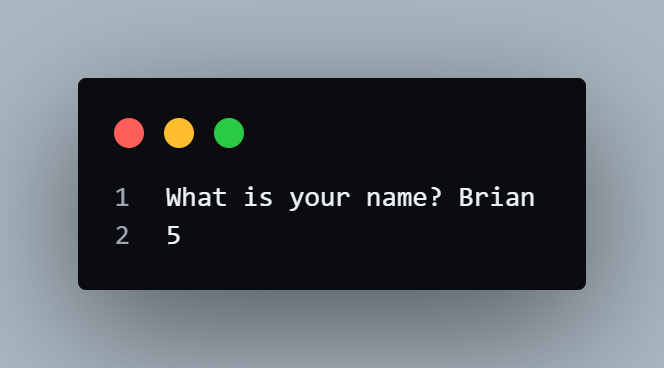
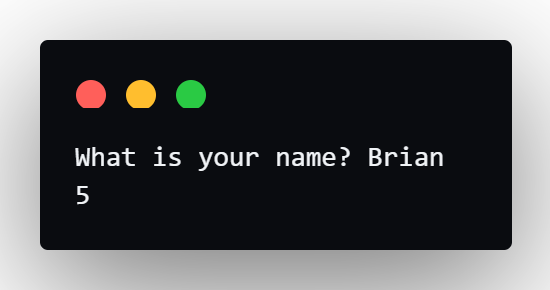
update README and pics

diff --git a/Day 9/testing.py b/Day 9/testing.py
@@ -1,0 +1,10 @@
+print("-------------Band Name Generator-------------\n")
+adjective = input("Enter an exciting adjective: ").capitalize()
+city = input("Enter your favorite color: ").capitalize()
+pet = input("Enter the name of your pet: ").capitalize()
+
+print("\nHere are the generated names for your band:")
+print(f"The {adjective} {city}")
+print(f"The {adjective} {pet}")
+print(f"The {pet} {city}")
+print(f"The {city} {pet}")

diff --git a/Day 1/README.md b/Day 1/README.md
@@ -13,7 +13,7 @@ print("The function is declared like this:")
 print("print('what to print')")
 ```
 
-- Result:
+- Result:<br>
 ![Day 1 Exercise 1](../assets/img/01_exercise_1.png)
 
 ## Exercise 2 - Debugging Practice
@@ -36,7 +36,7 @@ print('e.g. print("Hello " + "world")')
 print("New lines can be created with a backslash and n.")
 ```
 
-- Result:
+- Result:<br>
 ![Day 1 Exercise 2](../assets/img/01_exercise_2.png)
 
 ## Exercise 3 - Input Function
@@ -55,7 +55,7 @@ name = input("What is your name? ")
 print(len(name))
 ```
 
-- Result:
+- Result:<br>
 ![Day 1 Exercise 3](../assets/img/01_exercise_3.png)
 
 ## Exercise 4 - Variable
@@ -79,11 +79,11 @@ temp = a
 a = b
 b = temp
 
-print(f"a: {a}")
+print(f"\na: {a}")
 print(f"b: {b}")
 ```
 
-- Result:
+- Result:<br>
 ![Day 1 Exercise 4](../assets/img/01_exercise_4.png)
 
 # Project: Band Name Generator
@@ -101,5 +101,5 @@ print(f"The {pet} {city}")
 print(f"The {city} {pet}")
 ```
 
-- Output:
+- Output:<br>
 ![Band Name Generator](../assets/img/01_project.png)
